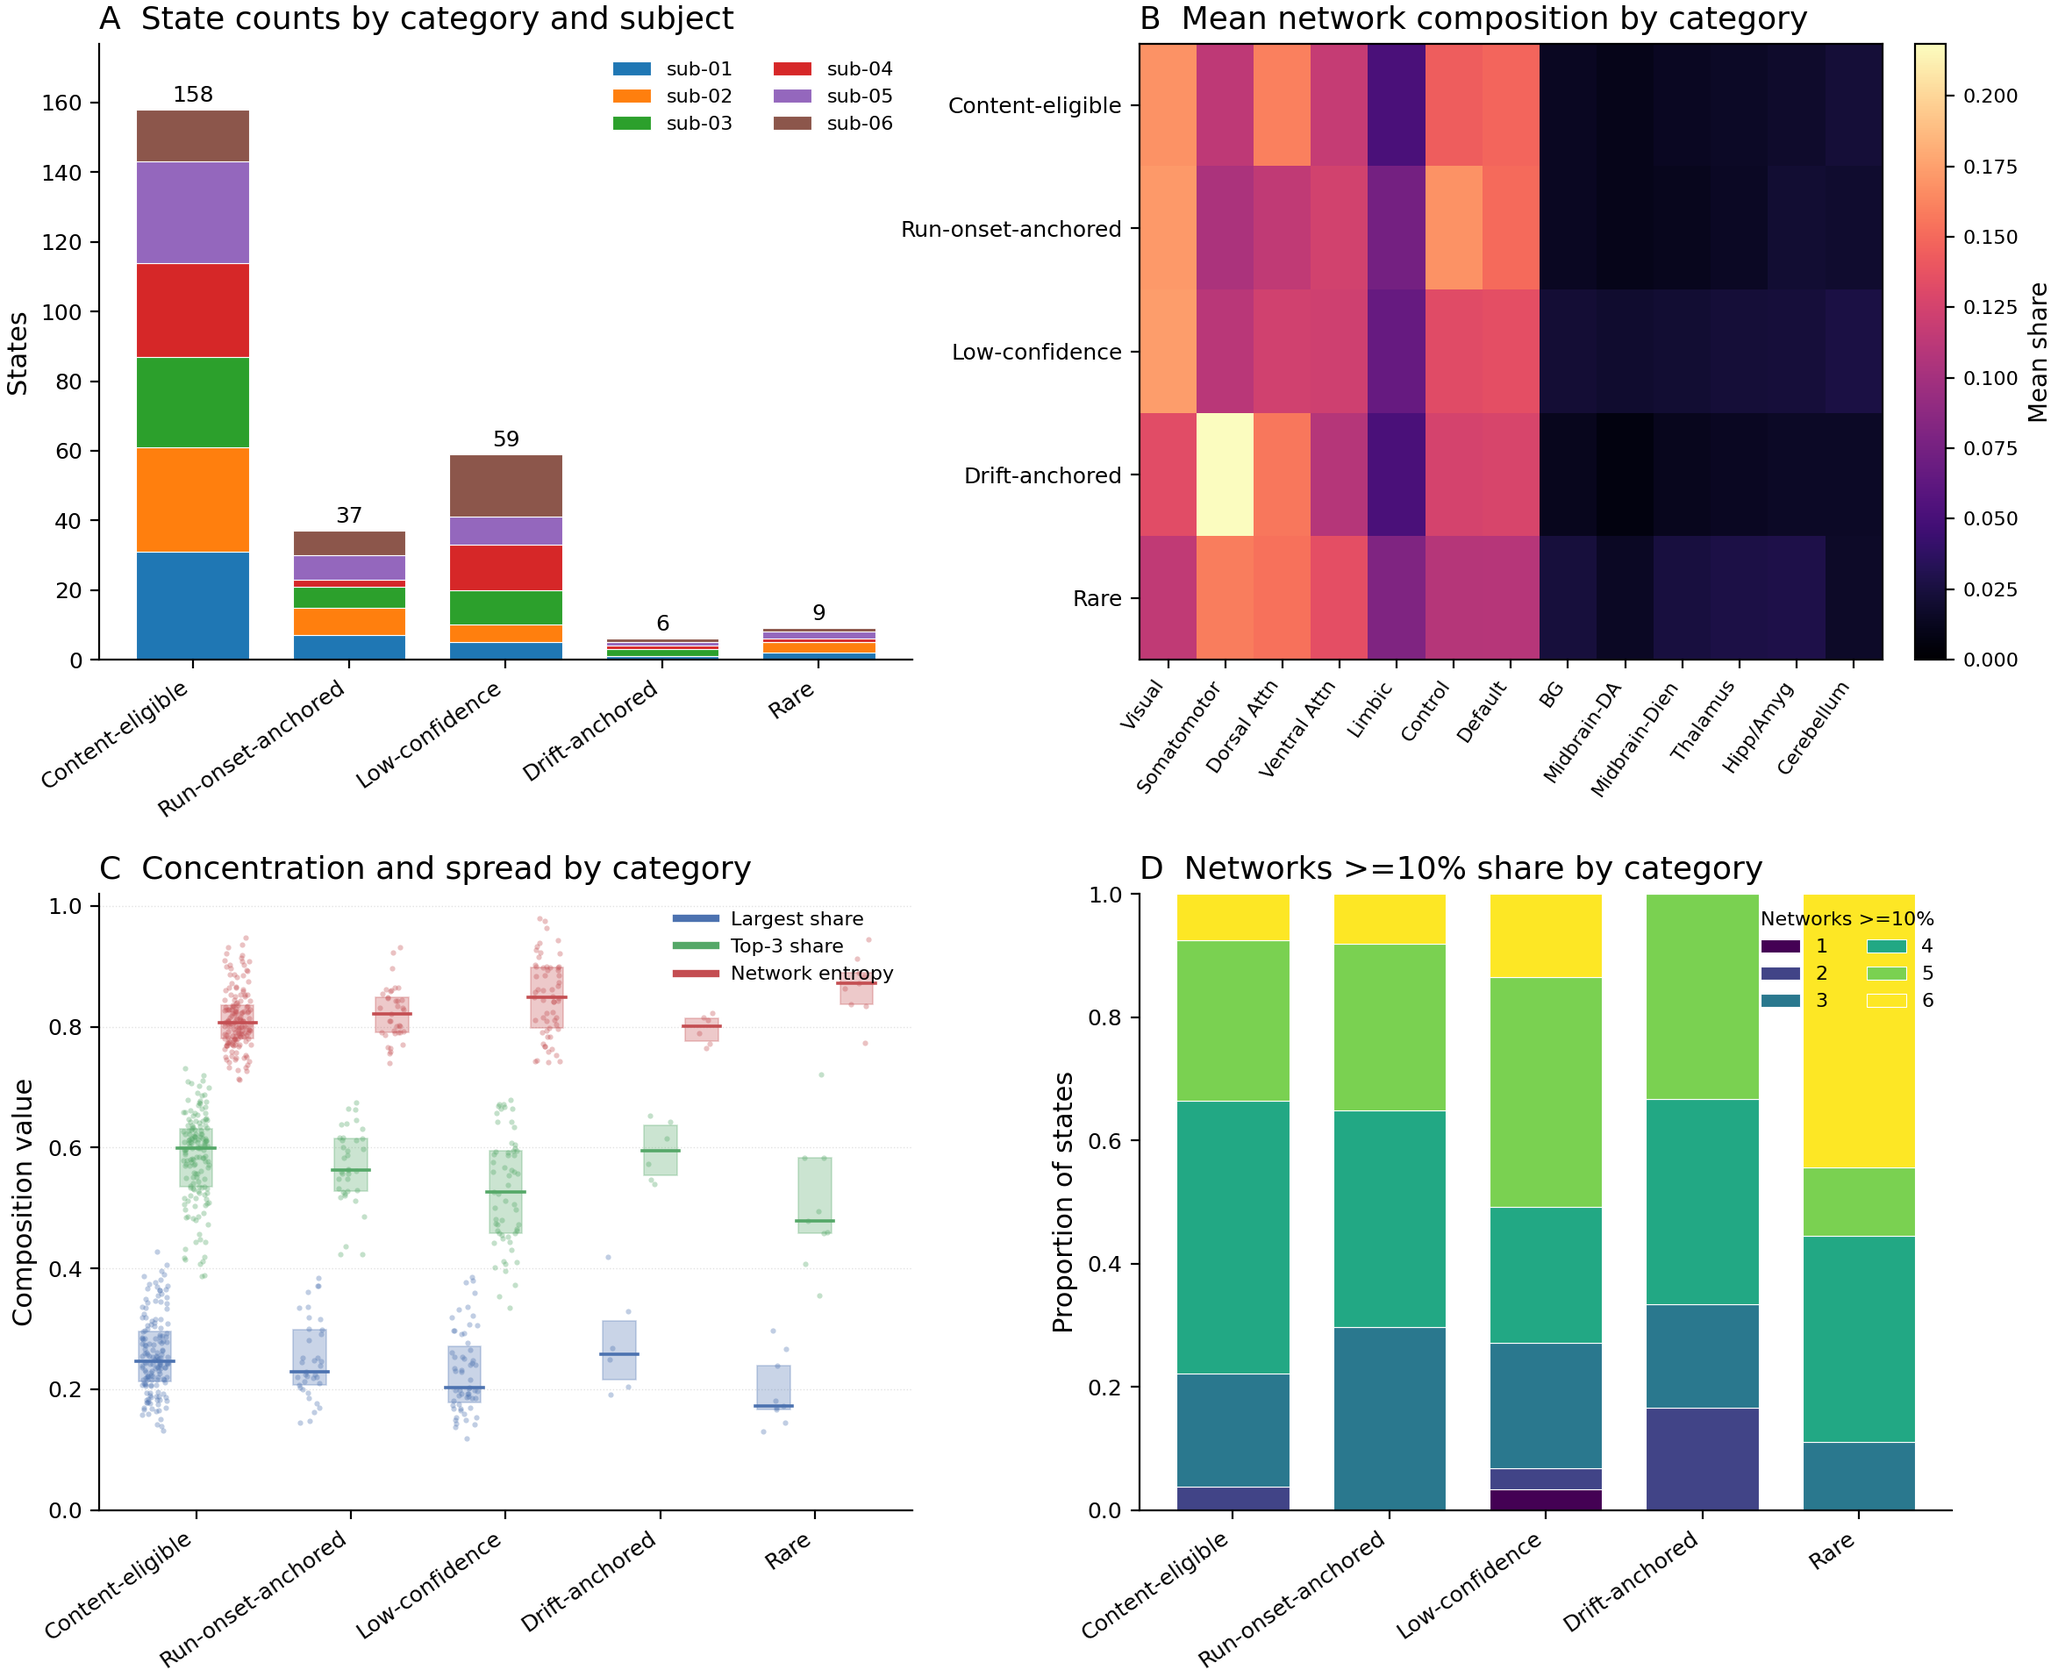
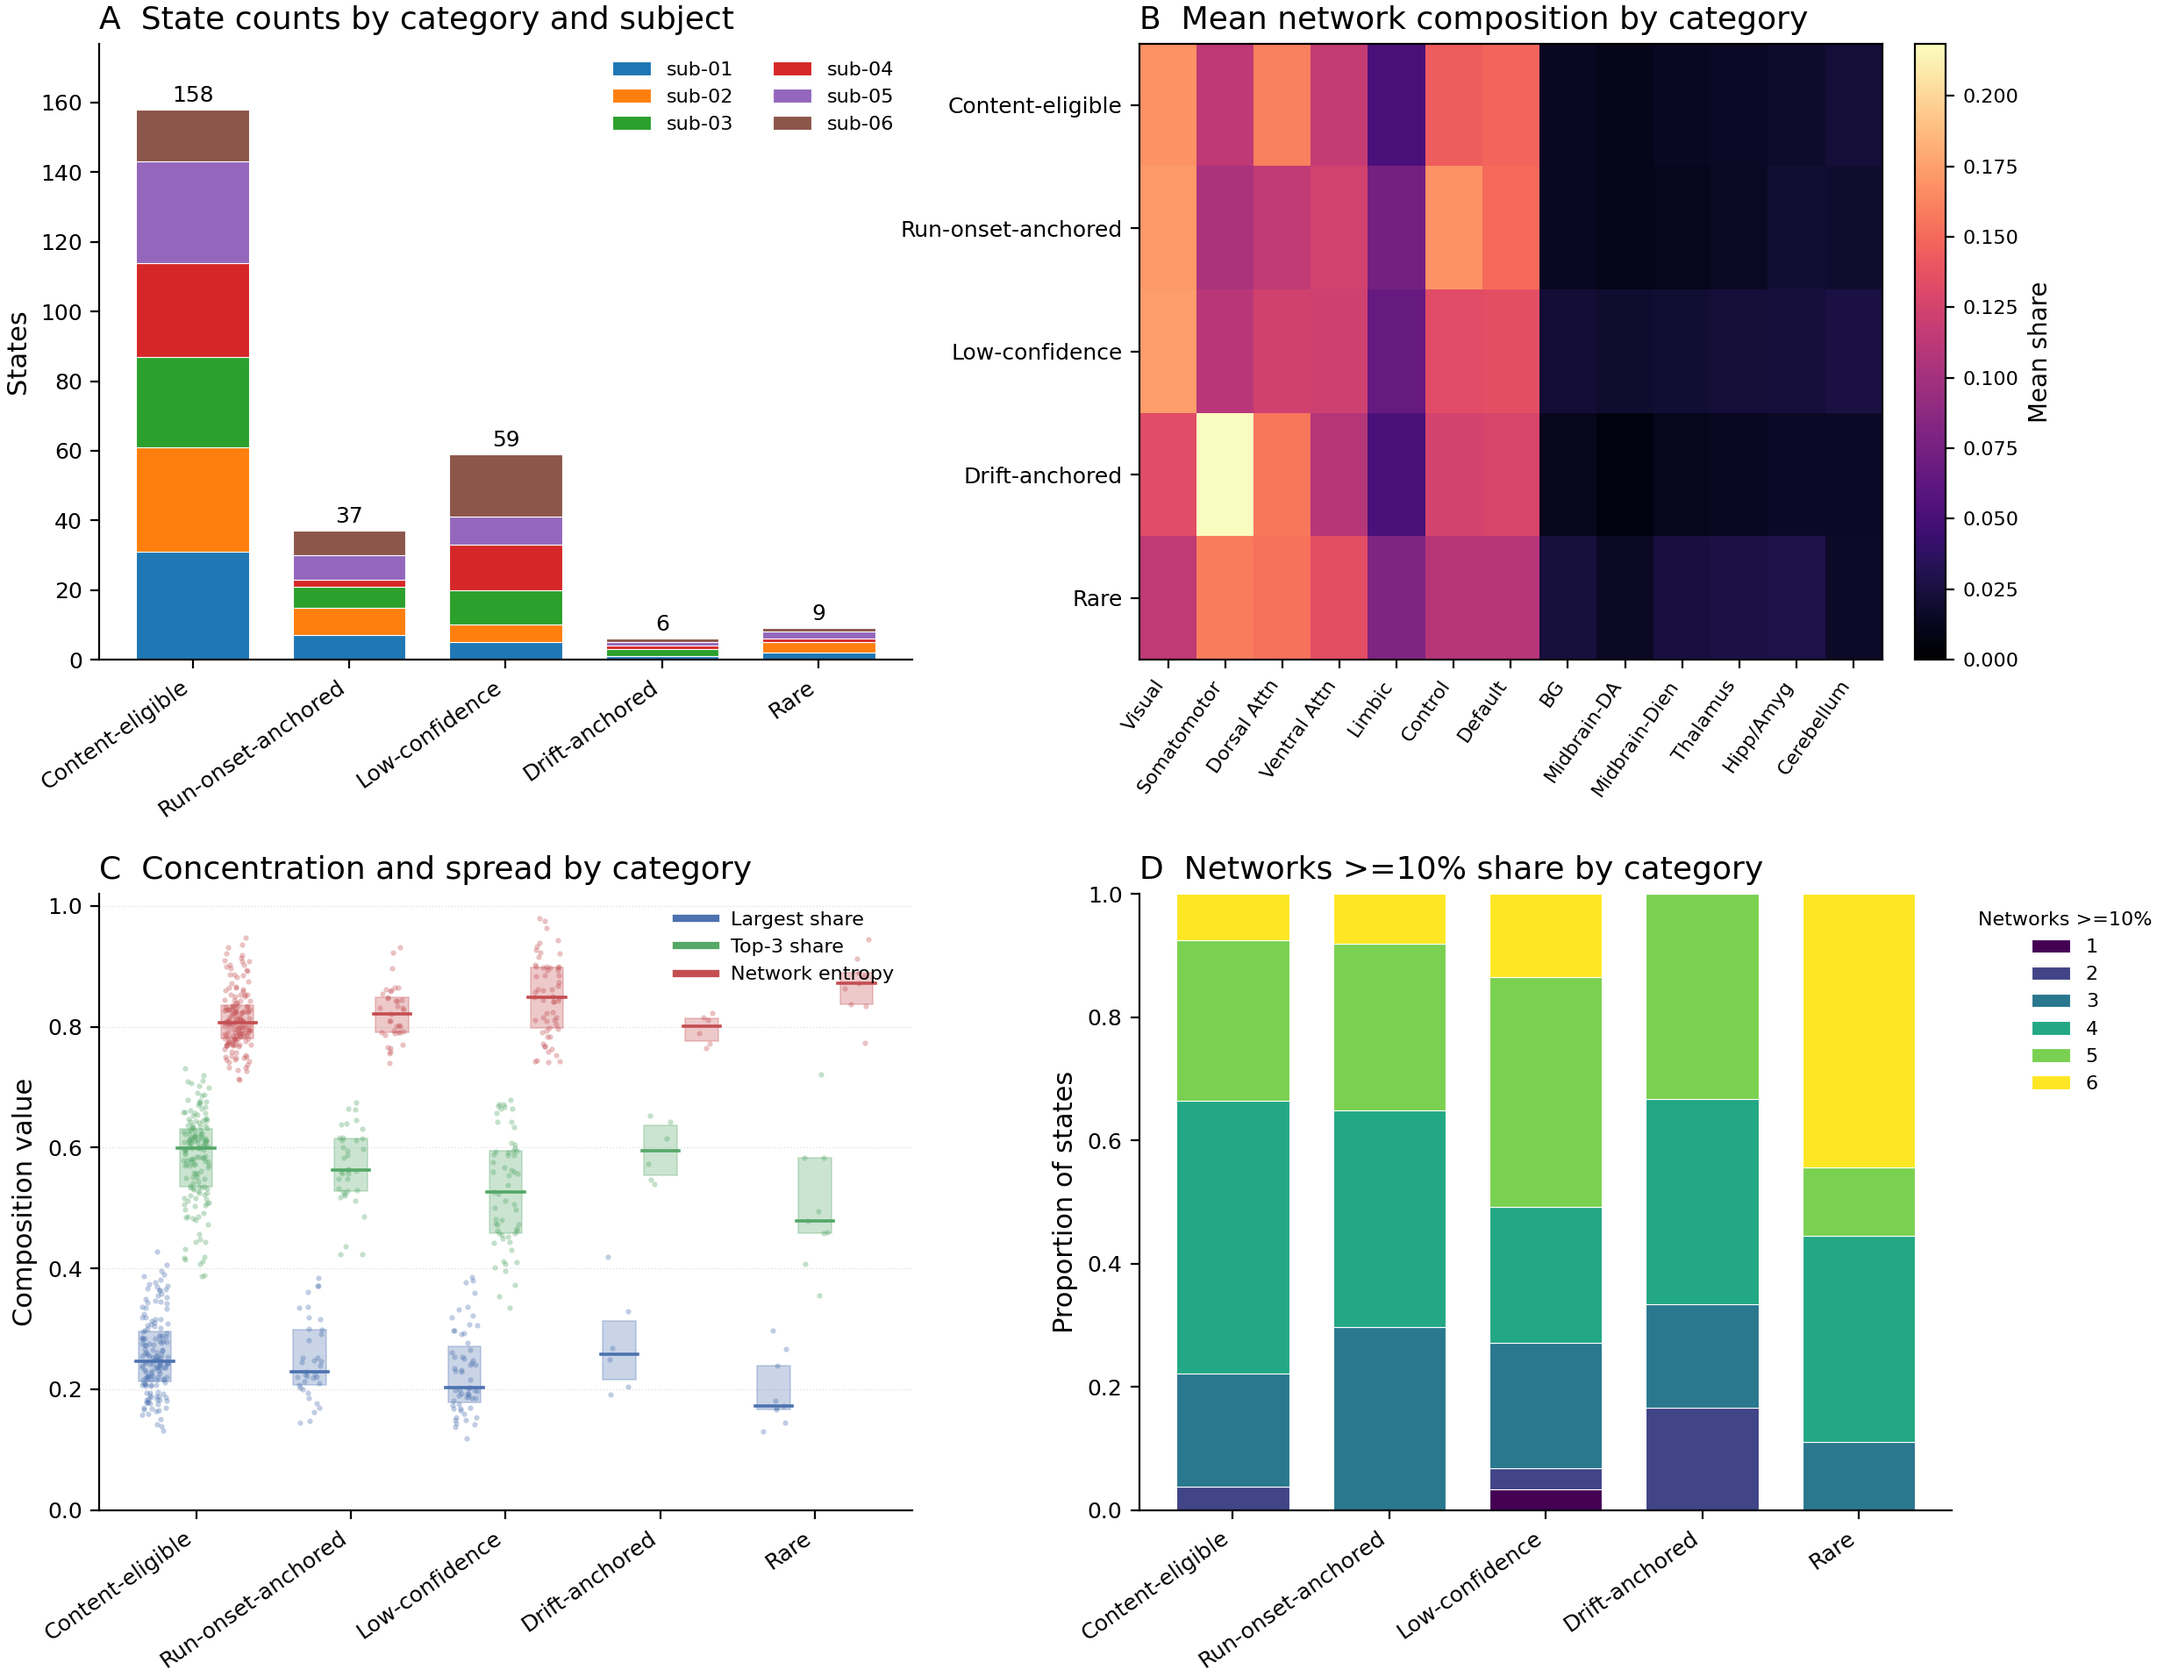
S11: fail on unknown state categories; legend outside Panel D
The S11 script now raises when a summary_category is neither one of the
five active-repertoire categories nor unused, instead of dropping those
states; the check lives in utils/network_participation.py
(assert_known_categories) with tests. Panel D's legend moves outside the
axes so it no longer covers the Rare bar.

Docstrings describe S11 as the by-category figure of the active
repertoire. The 05e_a4 findings define rare and content-eligible as
"none of the flags above" (informational session-trend tags do not
count), and the S11 caption says the metrics measure activation
magnitude, activation and deactivation alike.

diff --git a/script/utils/network_participation.py b/script/utils/network_participation.py
@@ -12,10 +12,11 @@ participation *magnitude* and intentionally do not distinguish activation from
 deactivation polarity.
 
 The same metric definitions back both the content-eligible Figure 2C panel and
-the supplementary all-category figure; pass ``summary_categories`` to select the
-state set. The screening categories (``run_onset_anchored``, ``low_confidence``,
-``unused``, ``rare``, ``season_temporal``) are provenance/QC labels and must not
-be interpreted as cognitive or biological state classes.
+the supplementary by-category figure (Figure S11, the five categories of the
+active repertoire); pass ``summary_categories`` to select the state set. The
+screening categories (``run_onset_anchored``, ``low_confidence``,
+``season_temporal``, ``rare``) are provenance/QC labels and must not be
+interpreted as cognitive or biological state classes.
 """
 
 from __future__ import annotations
@@ -120,6 +121,23 @@ def _resolve_categories(
     return set(summary_categories)
 
 
+def assert_known_categories(
+    state_flags: Mapping[str, pd.DataFrame],
+    allowed: Sequence[str],
+) -> None:
+    """Raise if any subject's ``summary_category`` is outside ``allowed``.
+
+    A category filter drops states whose label it does not list, so a renamed
+    or new label would otherwise vanish from a figure without an error.
+    """
+    allowed_set = set(allowed)
+    for subject, flags in state_flags.items():
+        unknown = sorted(set(flags["summary_category"].astype(str)) - allowed_set)
+        if unknown:
+            raise RuntimeError(
+                f"{subject}: summary_category values {unknown} are not in {sorted(allowed_set)}")
+
+
 def compute_network_participation_metrics(
     state_flags: Mapping[str, pd.DataFrame],
     state_means: Mapping[str, np.ndarray],
@@ -135,8 +153,8 @@ def compute_network_participation_metrics(
     summary_categories
         Which ``summary_category`` values to include. The default keeps only
         content-eligible states (Figure 2C). Pass ``None`` to keep every
-        category (supplementary all-category figure), or a custom list to
-        select specific categories.
+        category, unused included, or a list to select specific categories
+        (Figure S11 passes the five active-repertoire categories).
 
     Returns
     -------
@@ -605,7 +623,7 @@ def plot_network_participation_by_category(
     category_labels: Mapping[str, str] | None = None,
     category_order: Sequence[str] | None = None,
 ) -> None:
-    """Render the supplementary all-category network-participation figure.
+    """Render the supplementary by-category network-participation figure (S11).
 
     Four descriptive panels:
       A. state counts by category and subject (stacked bars)
@@ -764,8 +782,10 @@ def plot_network_participation_by_category(
     axD.set_ylim(0, 1.0)
     axD.set_ylabel("Proportion of states", fontsize=11)
     axD.set_title("D  Networks >=10% share by category", fontsize=13, loc="left", pad=6)
+    # Legend outside the axes so it never covers a bar.
     axD.legend(title="Networks >=10%", fontsize=8, title_fontsize=8,
-               ncol=2, frameon=False, loc="upper right")
+               ncol=1, frameon=False, loc="upper left",
+               bbox_to_anchor=(1.01, 1.0))
     axD.tick_params(axis="y", labelsize=9)
     for spine in ("top", "right"):
         axD.spines[spine].set_visible(False)

diff --git a/script/fig_S11_network_participation_categories.py b/script/fig_S11_network_participation_categories.py
@@ -1,13 +1,12 @@
 #!/usr/bin/env python3
-"""Supplementary Figure S11 - all-category canonical-network participation.
+"""Supplementary Figure S11 - canonical-network participation by state category.
 
 Applies the *same* metric definitions as the main content-eligible Figure 2C
-(``fig_F2_network_participation.py``) to every category of the active repertoire
-in ``state_flags.csv`` (unused states, recurrence = 0, are left out). The output is descriptive provenance/context, not a new main
-scientific claim.
+(``fig_F2_network_participation.py``) to every category of the active
+repertoire in ``state_flags.csv``. Unused states (recurrence = 0) are left out.
+The output is descriptive context, not a new main scientific claim.
 
-Scope and framing (see plan
-``docs/supplementary/2026-06-14_network_participation_categories_plan.md``):
+Scope and framing:
   - Canonical networks are an annotation frame for parcel-space fitted state maps.
   - Categories are provenance/screening labels, not cognitive state classes.
   - Do not interpret rare/low-confidence/drift-anchored categories
@@ -31,6 +30,7 @@ SCRIPT_DIR = Path(__file__).resolve().parent
 sys.path.insert(0, str(SCRIPT_DIR))
 
 from utils.network_participation import (  # noqa: E402
+    assert_known_categories,
     compute_network_participation_metrics,
     plot_network_participation_by_category,
     save_network_participation_outputs,
@@ -119,7 +119,9 @@ def main() -> None:
     if parcel_networks is None:
         raise RuntimeError(f"Could not load parcel networks for {args.parcellation}")
 
-    # Keep the five active-repertoire categories; drop unused states.
+    # Keep the five active-repertoire categories and drop unused states. Any
+    # other summary_category (e.g. a renamed label) is an error, not a silent drop.
+    assert_known_categories(state_flags, list(CATEGORY_ORDER) + ["unused"])
     metrics, _ = compute_network_participation_metrics(
         state_flags=state_flags,
         state_means=state_means,

diff --git a/script/tests/test_network_participation.py b/script/tests/test_network_participation.py
@@ -1,15 +1,18 @@
 """Tests for the shared network-participation utility.
 
 The same metric implementation backs the content-eligible Figure 2C and the
-supplementary all-category figure, so these tests pin both the metric math and
+supplementary by-category Figure S11, so these tests pin both the metric math and
 the category-selection behavior.
 """
 
 import numpy as np
 import pandas as pd
 
+import pytest
+
 from utils.network_participation import (
     ELIGIBLE_CATEGORY,
+    assert_known_categories,
     compute_network_participation_metrics,
     network_composition_for_state,
     summarize_network_participation,
@@ -238,3 +241,20 @@ def test_accepts_state_id_column():
     )
     assert len(metrics) == 1
     assert summary["n_states"] == 1
+
+
+def test_assert_known_categories_raises_on_unlisted_label():
+    flags = {
+        "sub-01": pd.DataFrame({"state": [0, 1],
+                                "summary_category": [ELIGIBLE_CATEGORY, "rare"]}),
+        "sub-02": pd.DataFrame({"state": [0, 1],
+                                "summary_category": [ELIGIBLE_CATEGORY, "rare_v2"]}),
+    }
+    with pytest.raises(RuntimeError, match=r"sub-02.*rare_v2"):
+        assert_known_categories(flags, [ELIGIBLE_CATEGORY, "rare"])
+
+
+def test_assert_known_categories_accepts_listed_labels():
+    flags = {"sub-01": pd.DataFrame({"state": [0, 1, 2],
+                                     "summary_category": [ELIGIBLE_CATEGORY, "rare", "unused"]})}
+    assert_known_categories(flags, [ELIGIBLE_CATEGORY, "rare", "unused"])

diff --git a/docs/findings/05e_temporal_trend_a4.md b/docs/findings/05e_temporal_trend_a4.md
@@ -10,7 +10,7 @@ _Synthesizes per-state temporal tags from a1, a2, and a3 into a unified eligibil
 - n_states=50 per subject (truncation capacity)
 - Inputs: 05a recurrence scores + eligible_states.json (sub-HRF exclusions), plus a1 temporal_trend_metrics.csv, a2 temporal_position_metrics.csv, a3 habituation_metrics.csv; all three upstream sources available for all 6 subjects
 - Tags are non-exclusive boolean flags. States with recurrence = 0 are tagged `unused`: they lie outside the active repertoire and are not assigned a category in the manuscript (the script still writes `unused` as their summary_category).
-- Each active state gets one of five mutually exclusive categories, by priority: low_confidence (sub-HRF) > run_onset_anchored > season_temporal (shown as drift-anchored) > eligible_for_content_analysis (recurrence ≥ 0.10) > rare (recurrence < 0.10, no other tag)
+- Each active state gets one of five mutually exclusive categories, by priority: low_confidence (sub-HRF) > run_onset_anchored > season_temporal (shown as drift-anchored) > eligible_for_content_analysis (none of the flags above, recurrence ≥ 0.10) > rare (none of the flags above, recurrence < 0.10). Informational session-trend tags do not affect the category
 - Session-trend tags (session_trend_down, session_trend_up) are informational only and do not drive category membership; within-session drift is addressed via detrended FO from a3
 - season_temporal requires co-occurrence of season_structured AND global_trend; season-only variation is not treated as temporal drift
 

diff --git a/docs/supplementary/README.md b/docs/supplementary/README.md
@@ -176,7 +176,7 @@ Most of the agreement between the two decompositions comes from the subspace the
 
 ![Network participation profiles for recurring brain states, displayed across cortical and subcortical systems](figures/S11_network_participation.png)
 
-This figure shows how the active states (recurrence > 0; 269 across the six participants) distribute their activation across large-scale cortical and subcortical networks, split by the five state categories of Figure 2A: content-eligible (158), run-onset-anchored (37), low-confidence (59), drift-anchored (6) and rare (9). Unused states (recurrence = 0) are outside the active repertoire and are not shown. The categories are screening labels based on temporal criteria, not classes of cognitive state, so differences between the non-eligible categories should not be read biologically.
+This figure shows how the active states (recurrence > 0; 269 across the six participants) distribute the magnitude of their activation (activation and deactivation alike) across large-scale cortical and subcortical networks, split by the five state categories of Figure 2A: content-eligible (158), run-onset-anchored (37), low-confidence (59), drift-anchored (6) and rare (9). Unused states (recurrence = 0) are outside the active repertoire and are not shown. The categories are screening labels based on temporal criteria, not classes of cognitive state, so differences between the non-eligible categories should not be read biologically.
 
 ---
 
